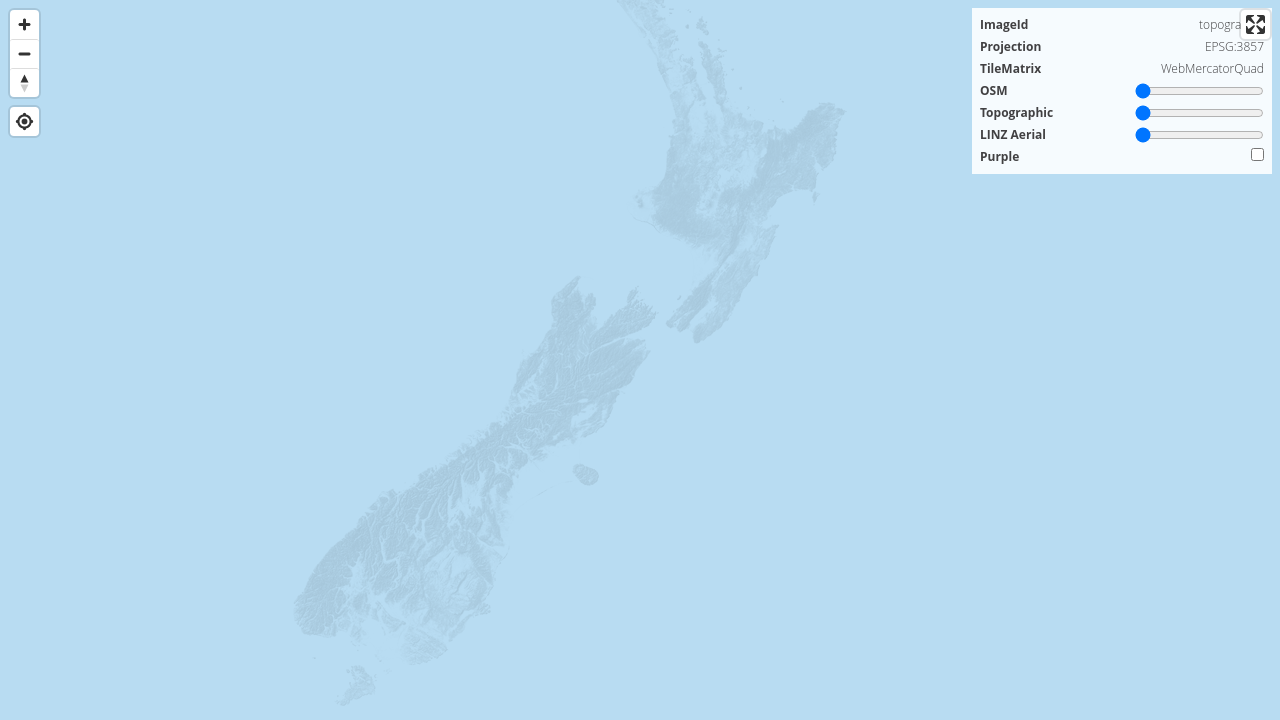
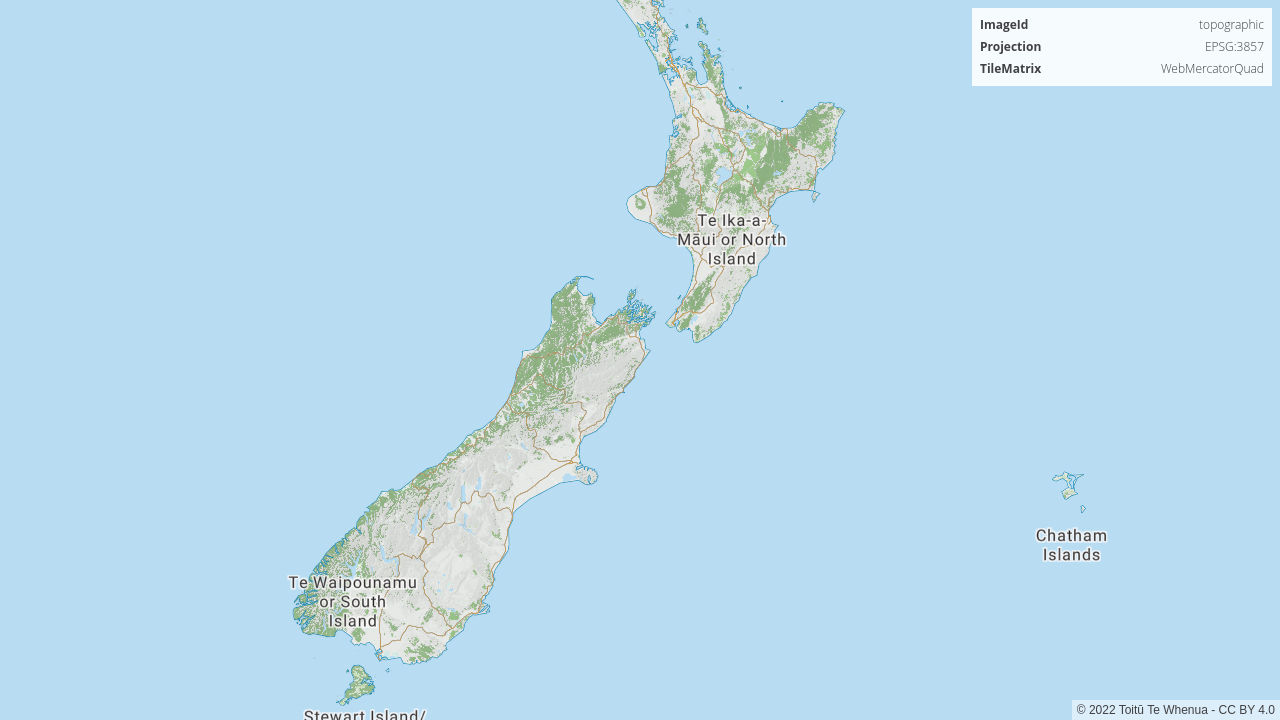
feat(scripts): wait for #map-loaded tag before taking screenshots

diff --git a/src/commands/screenshot.ts b/src/commands/screenshot.ts
@@ -1,8 +1,8 @@
 import { GoogleTms, Nztm2000QuadTms } from '@basemaps/geo';
-import { Config, LogConfig } from '@basemaps/shared';
+import { Config, LogConfig, LogType } from '@basemaps/shared';
 import { Command, Flags } from '@oclif/core';
 import { mkdir } from 'fs/promises';
-import { chromium } from 'playwright';
+import { chromium, Page } from 'playwright';
 
 const TileTest = [
   { tileMatrix: GoogleTms, location: { lat: -41.8899962, lng: 174.0492437, z: 5 }, tileSet: 'health', style: undefined },
@@ -29,8 +29,18 @@ export class CommandScreenShot extends Command {
 
     logger.info('Page:Launch');
     const chrome = await chromium.launch();
-
     const page = await chrome.newPage();
+
+    try {
+      await this.takeScreenshots(page, logger);
+    } finally {
+      await page.close();
+      await chrome.close();
+    }
+  }
+
+  async takeScreenshots(page: Page, logger: LogType): Promise<void> {
+    const { flags } = await this.parse(CommandScreenShot);
 
     for (const test of TileTest) {
       const tileSetId = await this.getTileSetId(test.tileSet, flags.tag);
@@ -51,25 +61,22 @@ export class CommandScreenShot extends Command {
 
       await mkdir(`static/${flags.host}`, { recursive: true });
 
-      const url = `https://${flags.host}/?${searchParam.toString()}&debug=true&debug.overlay=screeenshot#${loc}`;
+      const url = `https://${flags.host}/?${searchParam.toString()}&debug=true&debug.screenshot=true#${loc}`;
 
       logger.info({ url, expected: fileName }, 'Page:Load');
 
       await page.goto(url);
 
-      if (styleId) {
-        // TODO expose a map finished loading event to listen to
-        await page.evaluate(() => new Promise((resolve) => setTimeout(resolve, 10_000)));
+      if (flags.host.startsWith('dev')) {
+        await page.waitForSelector('div#map-loaded', { state: 'attached' });
+        await page.waitForTimeout(2_500);
       } else {
-        await page.evaluate(() => new Promise((resolve) => setTimeout(resolve, 25_000)));
+        throw new Error('Not supported on production yet');
       }
       await page.screenshot({ path: fileName });
 
       logger.info({ url, expected: fileName }, 'Page:Load:Done');
     }
-
-    await page.close();
-    await chrome.close();
   }
 
   async getTileSetId(tileSetId: string, tag: string): Promise<string> {
